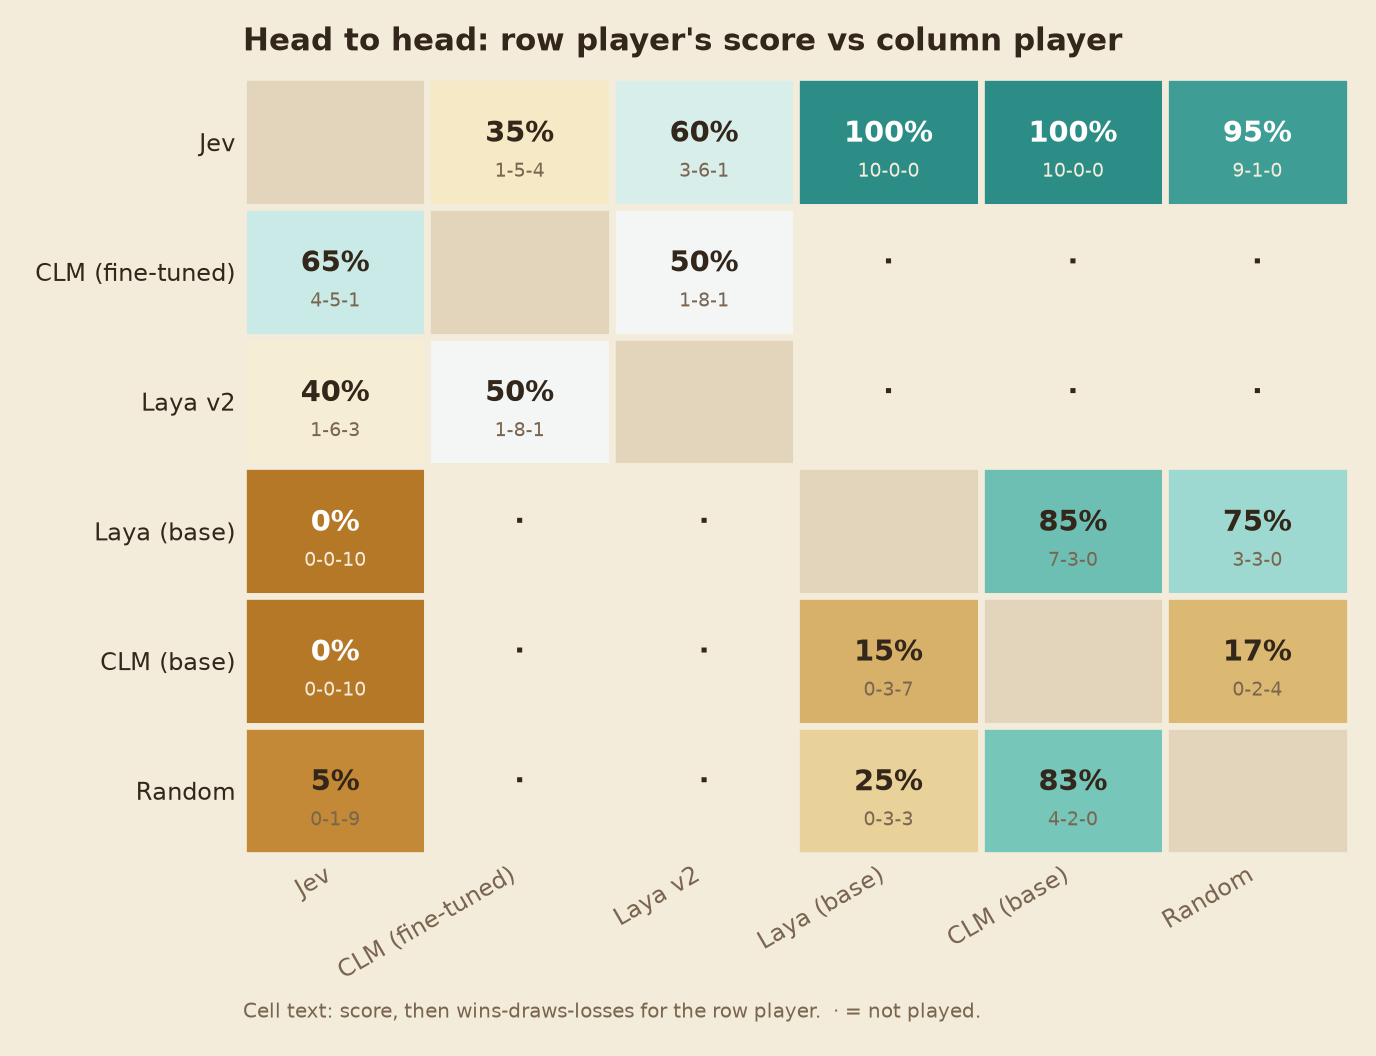
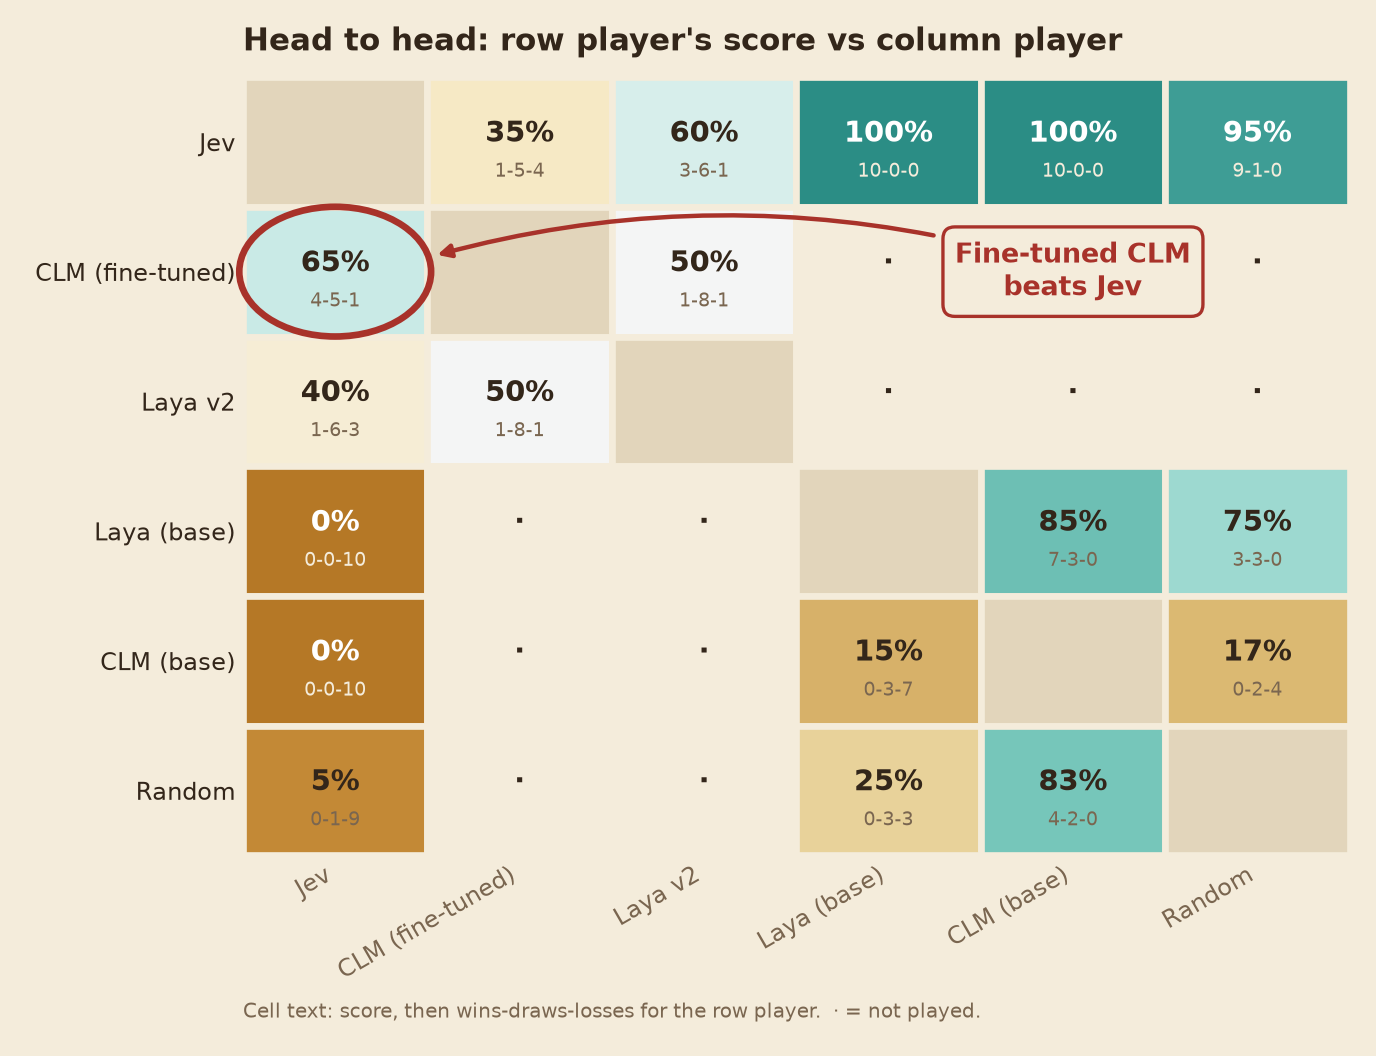
Added the highlights into images

diff --git a/laya-test/make_charts.py b/laya-test/make_charts.py
@@ -3,6 +3,9 @@ Draw the README charts for the tournament and the move-quality evaluation.
 
     python make_charts.py                       # uses the results below, writes images/*.png
     python make_charts.py --summaries runs/tournament --out images
+    python make_charts.py --no-highlight        # without the circled results
+
+To circle a different result, edit HIGHLIGHT below.
 
 With --summaries, results are read from the tournament's summary.json files instead of
 the numbers typed in below.
@@ -13,7 +16,7 @@ import json
 import os
 
 import matplotlib.pyplot as plt
-from matplotlib.patches import Patch
+from matplotlib.patches import Ellipse, FancyBboxPatch, Patch
 
 # ------------------------------------------------------------------ data
 # (first-named, second-named, wins, draws, losses, unfinished, {termination: count})
@@ -36,6 +39,20 @@ MATCHES = [
 # winning chance lost per move on the same 300 held-out positions (lower is better)
 EVAL = [("Random move", 0.23087), ("CLM (base)", 0.21924), ("Laya, 1st fine-tune", 0.14596),
         ("Laya v2", 0.10330), ("CLM (fine-tuned)", 0.09837)]
+
+# ------------------------------------------------------------------ highlights
+# The result to circle in each chart (set any entry to None to skip it). Names must match
+# the player names used above.
+HIGHLIGHT = {
+    # head-to-head grid: (row player, column player, note)
+    "head_to_head": ("CLM (fine-tuned)", "Jev", "Fine-tuned CLM\nbeats Jev"),
+    # tournament bars: ((first-named, second-named), note)
+    "results": (("Jev", "CLM (fine-tuned)"),
+                "Highlighted: fine-tuned CLM scored 65% against Jev (4 wins, 5 draws, 1 loss)"),
+    # move-quality bars: (model, note)
+    "move_quality": ("CLM (fine-tuned)", "best"),
+}
+HIGHLIGHT_COLOR = "#a8322a"
 
 NAMES = {"jev": "Jev", "random": "Random", "laya_base": "Laya (base)", "laya_v2": "Laya v2",
          "clm_base": "CLM (base)", "clm_ft": "CLM (fine-tuned)"}
@@ -96,6 +113,16 @@ def chart_results(matches, path):
     ax.set_xlim(0, 10)
     ax.set_xticks(range(0, 11, 2))
     ax.set_xlabel("games (10 per match)", color=MUTED)
+    h = HIGHLIGHT.get("results") if HIGHLIGHT else None
+    if h:
+        pair, note = h
+        for i, (a, b, *_) in enumerate(rows):
+            if (a, b) == tuple(pair):
+                ax.add_patch(FancyBboxPatch((-0.05, i - 0.43), 11.3, 0.86,
+                                            boxstyle="round,pad=0,rounding_size=0.35",
+                                            fill=False, edgecolor=HIGHLIGHT_COLOR, linewidth=2.6,
+                                            clip_on=False, zorder=5, mutation_aspect=0.4))
+                fig.text(0.01, 0.012, note, fontsize=10, color=HIGHLIGHT_COLOR, fontweight="bold")
     ax.text(10.35, len(rows) - 0.35, "score", fontsize=10, color=MUTED, va="bottom")
     for spine in ("top", "right", "left"):
         ax.spines[spine].set_visible(False)
@@ -174,6 +201,20 @@ def chart_crosstable(matches, path):
                     fontweight="bold", color="white" if dark else INK)
             ax.text(c + 0.5, n - 1 - r + 0.27, sub, ha="center", va="center", fontsize=8.5,
                     color="#f4ecdb" if dark else MUTED)
+    h = HIGHLIGHT.get("head_to_head") if HIGHLIGHT else None
+    if h and h[0] in idx and h[1] in idx:
+        r, c = idx[h[0]], idx[h[1]]
+        cx, cy = c + 0.5, n - 1 - r + 0.5
+        ax.add_patch(Ellipse((cx, cy), 1.04, 1.0, fill=False, edgecolor=HIGHLIGHT_COLOR,
+                             linewidth=3, clip_on=False, zorder=5))
+        # put the note in the emptiest cells of the same row, pointing back at the circle
+        empty = [cc for cc in range(n) if cc != r and grid[r][cc] is None]
+        tx = (min(empty) + max(empty) + 1) / 2 if empty else n + 0.6
+        ax.annotate(h[2], xy=(cx + 0.53, cy + 0.12), xytext=(tx, cy), ha="center", va="center",
+                    fontsize=12, fontweight="bold", color=HIGHLIGHT_COLOR, zorder=6,
+                    bbox=dict(boxstyle="round,pad=0.45", fc=PAPER, ec=HIGHLIGHT_COLOR, lw=1.5),
+                    arrowprops=dict(arrowstyle="-|>", color=HIGHLIGHT_COLOR, lw=2,
+                                    shrinkA=4, shrinkB=2, connectionstyle="arc3,rad=0.15"))
     ax.set_xlim(0, n)
     ax.set_ylim(0, n)
     ax.set_xticks([c + 0.5 for c in range(n)], players, rotation=30, ha="right")
@@ -201,12 +242,20 @@ def chart_eval(path):
         note = "" if names[i] == "Random move" else f"   ({cut:.0%} better than random)"
         ax.text(v + 0.004, i, f"{v:.3f}{note}", va="center", fontsize=10, color=INK)
     ax.axvline(EVAL[0][1], color=MUTED, linestyle="--", linewidth=1)
+    h = HIGHLIGHT.get("move_quality") if HIGHLIGHT else None
+    if h and h[0] in names:
+        i = names.index(h[0])
+        ax.add_patch(FancyBboxPatch((-0.005, i - 0.42), vals[i] + 0.114, 0.84,
+                                    boxstyle="round,pad=0,rounding_size=0.012",
+                                    fill=False, edgecolor=HIGHLIGHT_COLOR, linewidth=2.6,
+                                    clip_on=False, zorder=5, mutation_aspect=18))
     ax.set_yticks(range(len(vals)), names)
     ax.set_xlim(0, 0.33)
     ax.set_xlabel("winning chance lost per move vs Stockfish's best (lower is better)", color=MUTED)
     for spine in ("top", "right", "left"):
         ax.spines[spine].set_visible(False)
     ax.tick_params(axis="y", length=0)
+    ax.tick_params(axis="y", pad=14)
     ax.set_title("Move quality on the same 300 held-out positions", loc="left")
     fig.tight_layout()
     fig.savefig(path, dpi=160)
@@ -217,7 +266,10 @@ def main():
     ap = argparse.ArgumentParser(description=__doc__, formatter_class=argparse.RawDescriptionHelpFormatter)
     ap.add_argument("--summaries", default=None, help="tournament folder with NN_a_vs_b/summary.json")
     ap.add_argument("--out", default="images")
+    ap.add_argument("--no-highlight", action="store_true", help="draw the charts without circles")
     args = ap.parse_args()
+    if args.no_highlight:
+        HIGHLIGHT.clear()
     style()
     matches = load_summaries(args.summaries) if args.summaries else MATCHES
     os.makedirs(args.out, exist_ok=True)
